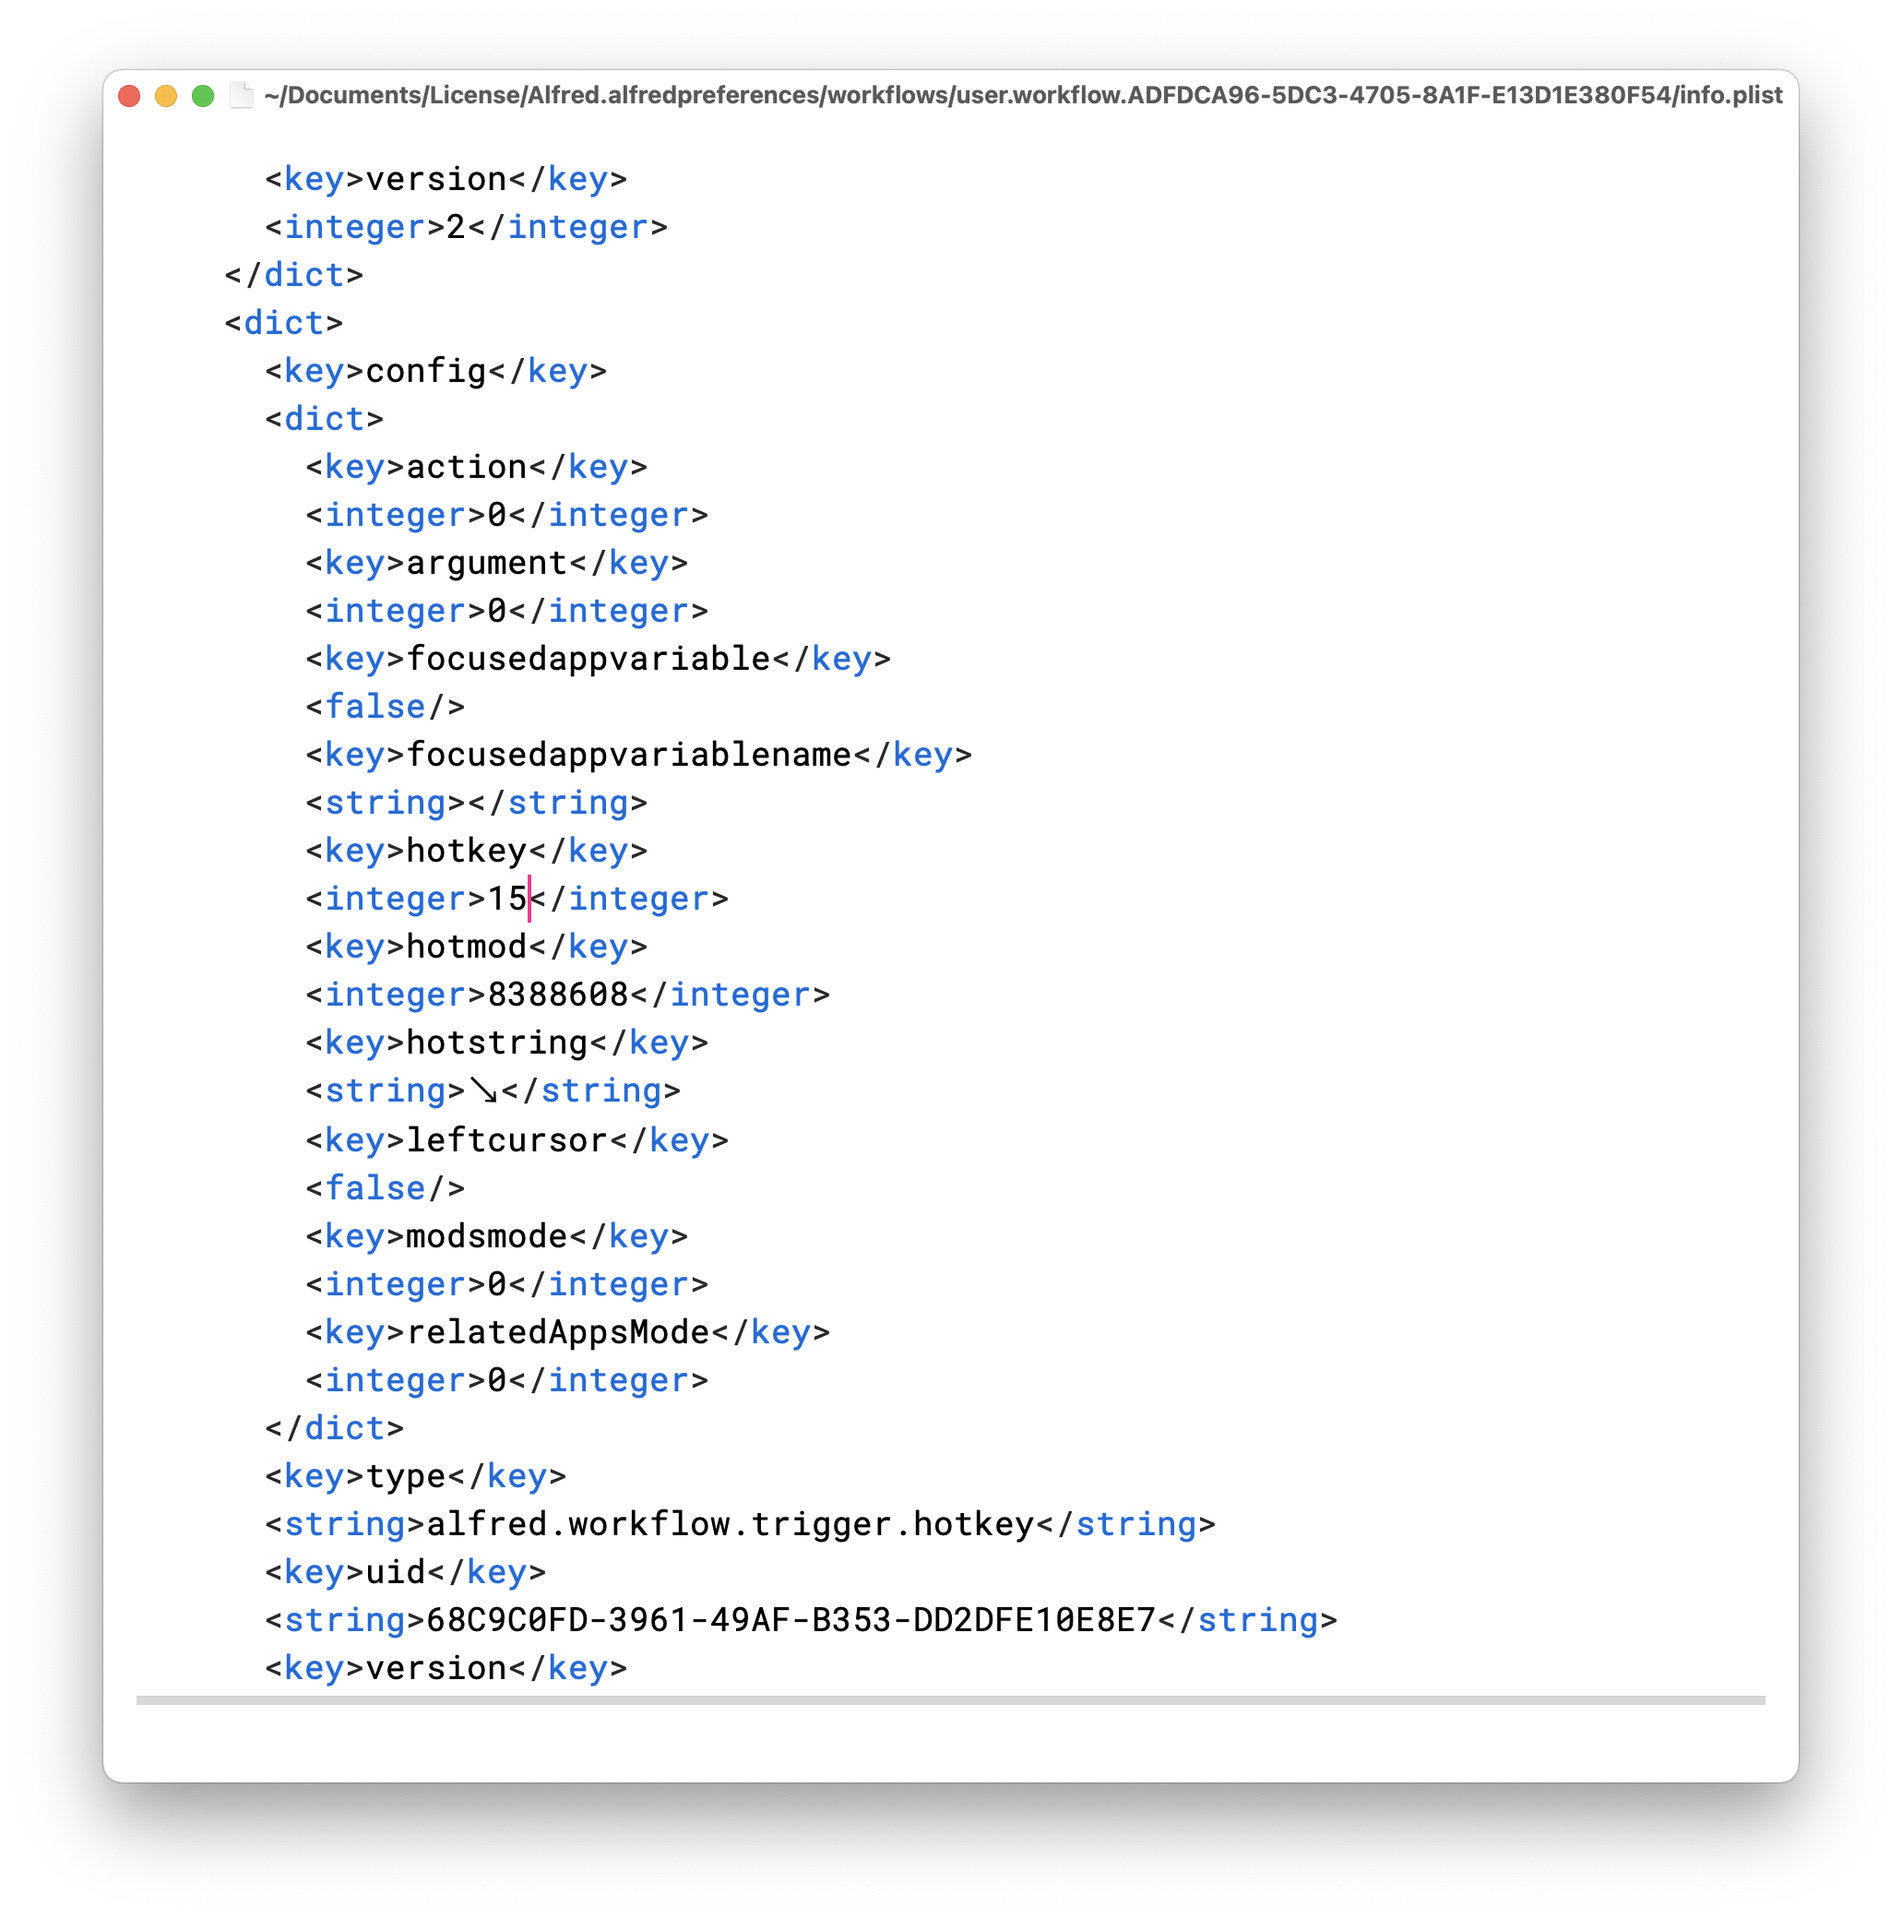
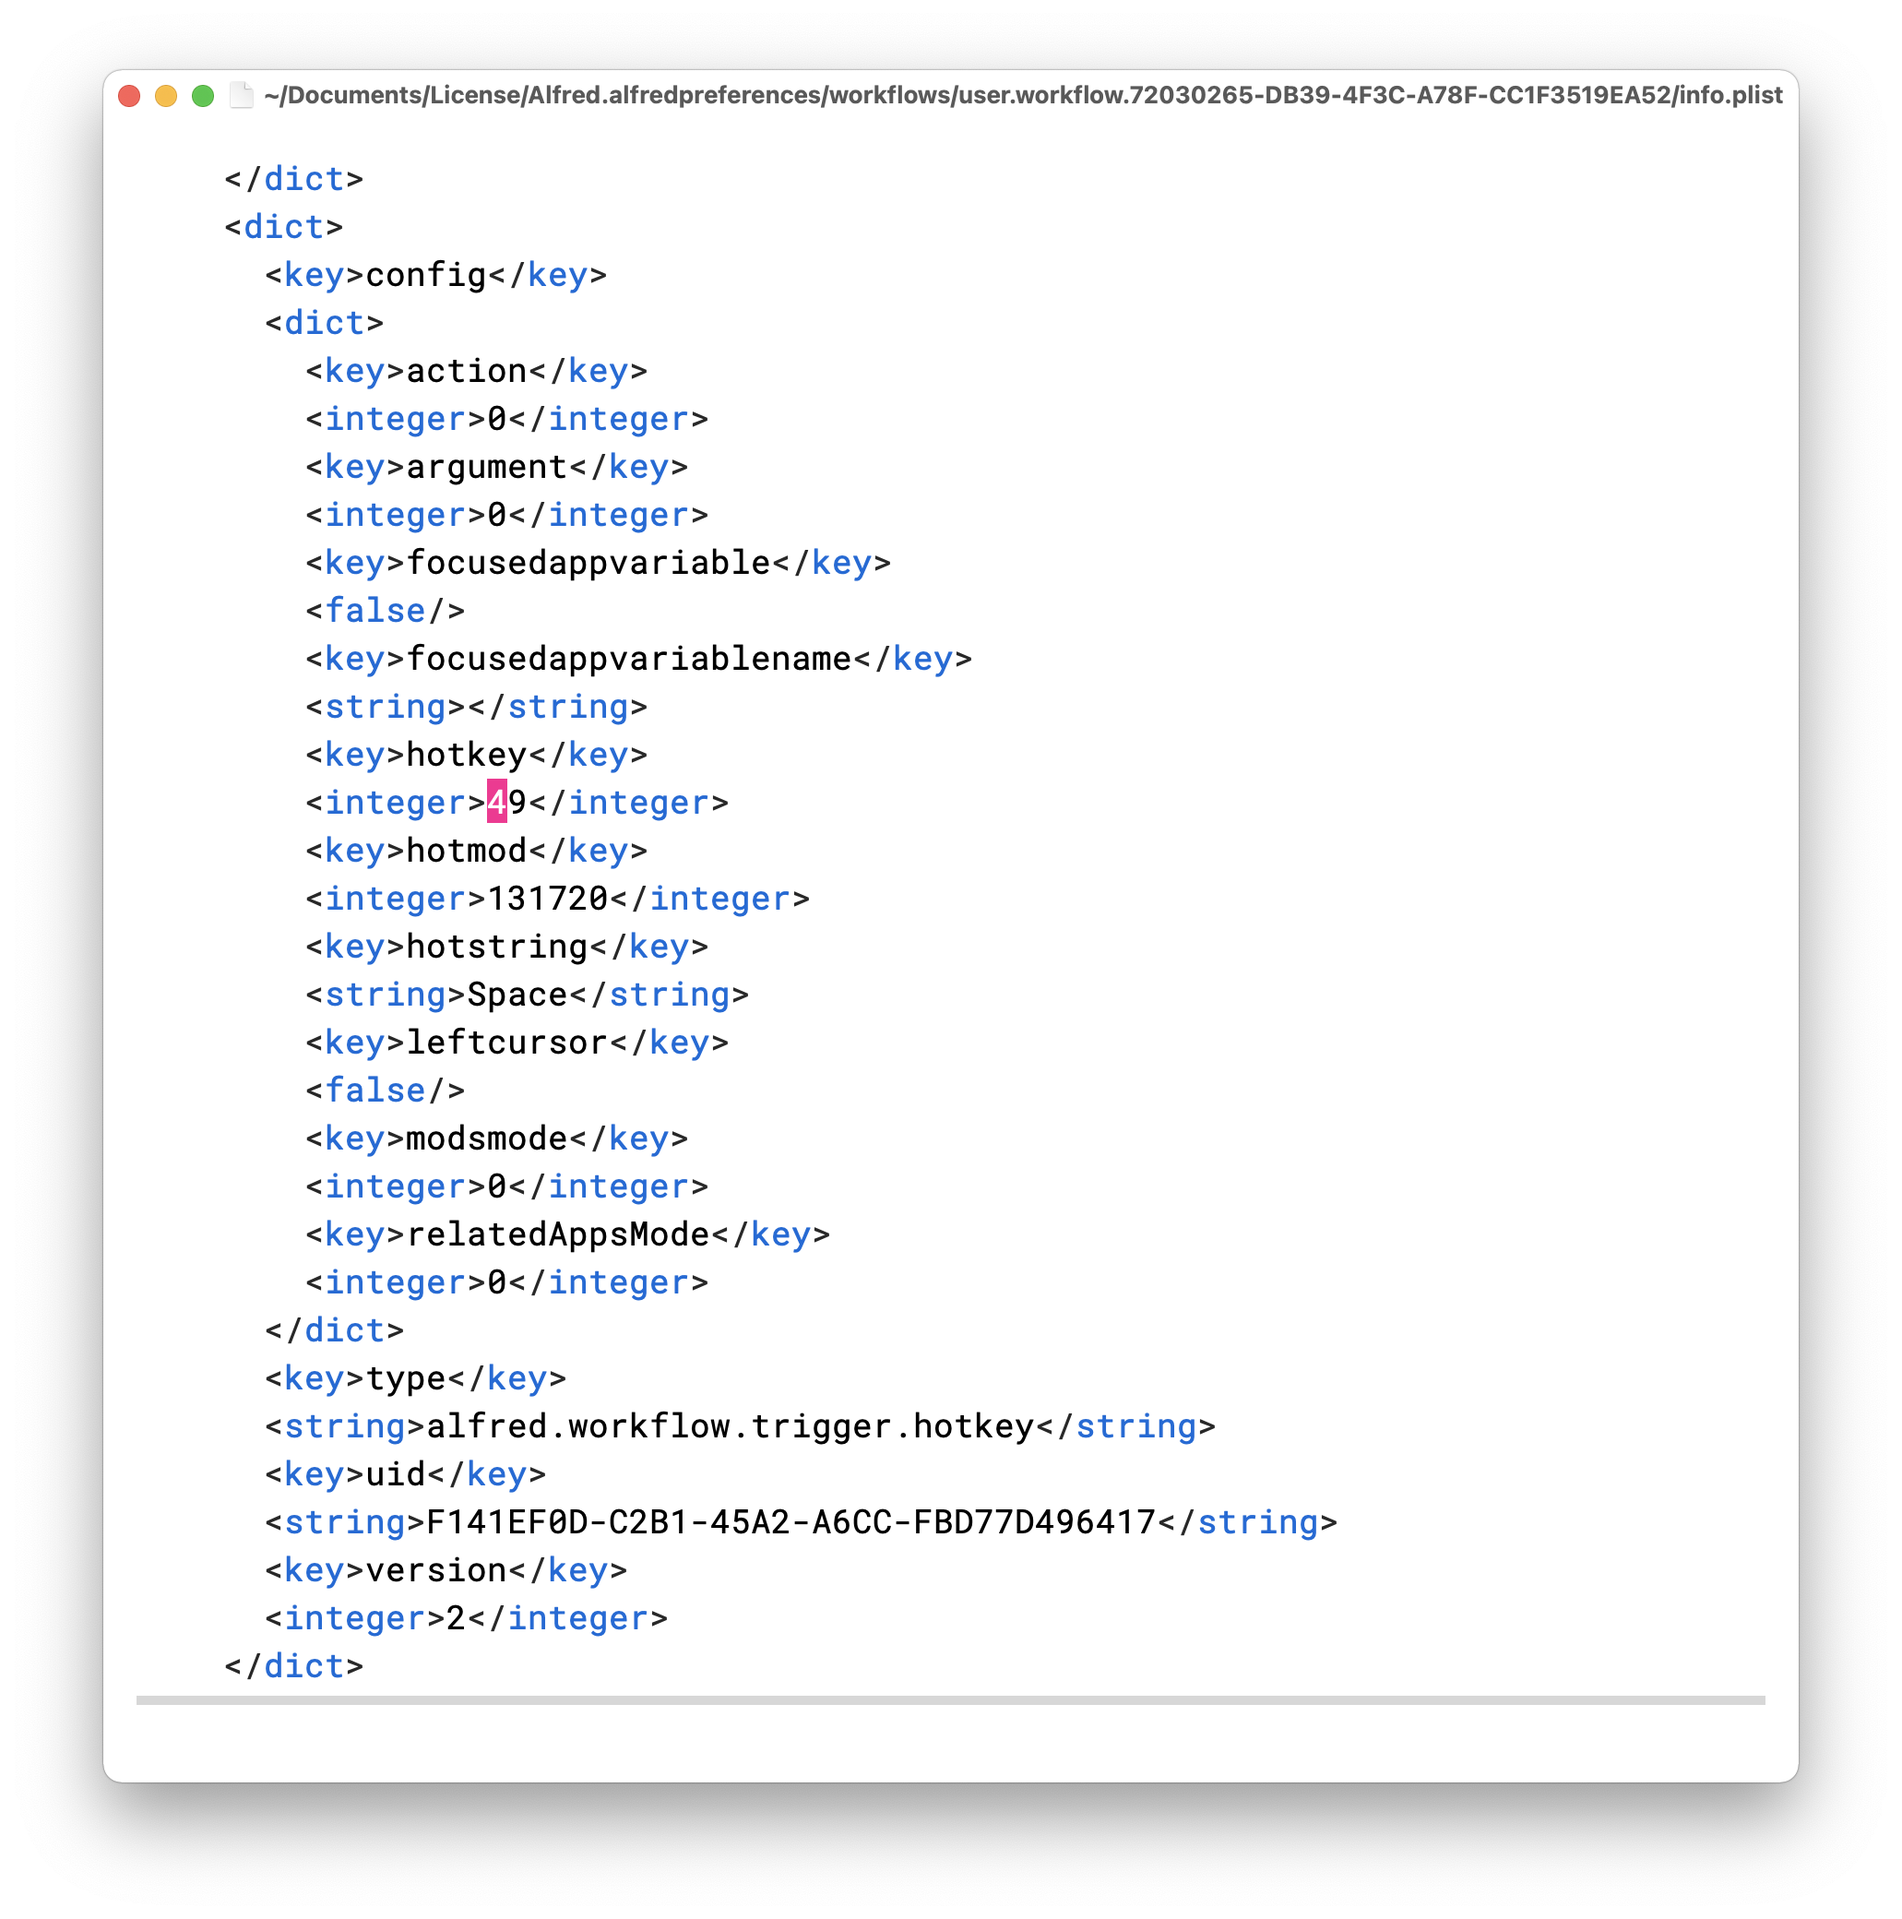
update readme

diff --git a/README.md b/README.md
@@ -13,7 +13,7 @@ Use <kbd>Shift</kbd> + <kbd>Space</kbd> and <kbd>fn</kbd> + <kbd>somekey</kbd> a
 https://user-images.githubusercontent.com/14329786/152137289-1408e50e-5184-4d0a-a4be-ad152f2c9774.mp4
 
 ### Shift Space
-1. Open the `info.plist`.
+1. Open the `info.plist` of your workflow.
 
     If your editor supports `.plist`, like Xcode:
     ![xcode](images/xcode.png)
@@ -24,14 +24,14 @@ https://user-images.githubusercontent.com/14329786/152137289-1408e50e-5184-4d0a-
     If you want to use text editor, find something like the code below:<br>
     NOTICE: There might be multiple shortcuts in one workflow.<br>
     This tool might be helpful: [Diff Checker](https://www.diffchecker.com/u6GunNUY)
-    ```xml
+```xml
                 <key>hotkey</key>
                 <integer>49</integer>
                 <key>hotmod</key>
                 <integer>131720</integer>
-    ```
+```
 2. Change/Add the `hotkey` value to `49`.
-3. Change/Add the `hotmod` value to `131072`.
+3. Change/Add the `hotmod` value to `131720`.
 4. Remember to save the changes in your editor.
 
 ### fn + somekey
@@ -49,11 +49,12 @@ The code below represents <kbd>fn</kbd> + <kbd>R</kbd>.
 ![hotkeys](images/hotkeys.png)
 
 **hotmods**
-*Note: Somethings are duplicated, I haven't use them all so I didn't test. Pull request is welcome.*
+*Note: Some hotmods are duplicated, I haven't used them all so I didn't test. Pull request is welcome.*
 
 | Hotmod Integers | Hotkey Modefiers                   |
 |------------------|------------------------------------|
 | 131072           | Shift                              |
+| 131720           | Shift                              |
 | 262144           | Control                            |
 | 262401           | Control                            |
 | 393216           | Shift + Control                    |
